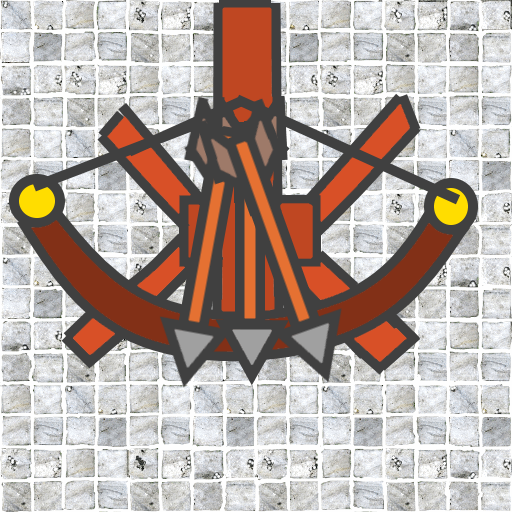
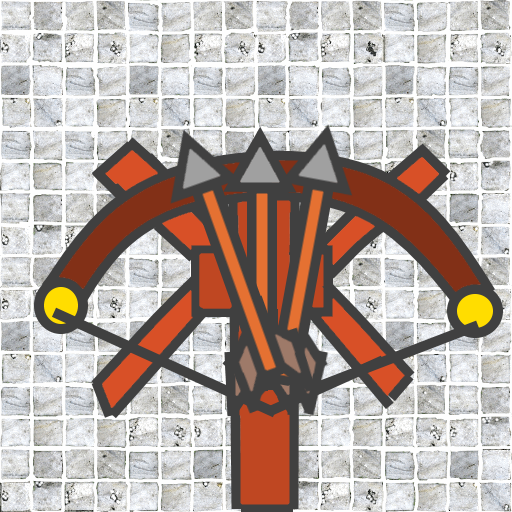
rotation is further implemented

diff --git a/src/explorerTypes/Explorer.java b/src/explorerTypes/Explorer.java
@@ -33,16 +33,17 @@ public class Explorer extends Unit{
 	public Explorer(Group group) {
 		//Hit points, location in Pixels, Velocity in Pixels, Size relative to screen, id to recognize later, an identity code
 		super(group);
+		animation.setRotation(90);
+
 		this.delay=25;
 		this.id = -1;
-		this.lastDirection=2;
+		this.lastDirection=1;
 		this.group=group;
 		unitSize=new Vector2f(0.045f,(float) (0.045f*DisplayManager.getAspectratio()));
 		position=group.getPosition();
 		super.idle=new GuiTexture(GuiLibrary.explorerStanding,location,unitSize);
 		super.animation=new Animation(AnimationLibrary.explorer,location,unitSize);
 		super.animation.setDelay(delay);
-		this.velocity = velocity;
 		floor = Main.grids.get(0).getFloor();
 		damage = 1;
 		
@@ -117,6 +118,7 @@ public class Explorer extends Unit{
 	}
 
 	public void rotate(int direction) {
+		System.out.println("rotating");
 		switch(group.getDirection()){
 		case 1:
 			switch(lastDirection){

diff --git a/src/main/Main.java b/src/main/Main.java
@@ -133,10 +133,11 @@ public static void main(String[] args) throws FileNotFoundException {
 	squad1List.add(group3);
 	squad1List.add(group4);
 	for(Group g : squad1List) {
+		g.add(new Miner (g));
+		g.add(new Miner (g));
 		g.add(new Explorer (g));
-		g.add(new Miner (g));
 		g.add(new TreasureHunter(g));
-		g.add(new Miner (g));
+
 	}
 	Squad squad1=new Squad(squad1List, 0);
 	squads.add(squad1);
@@ -222,7 +223,7 @@ public static void main(String[] args) throws FileNotFoundException {
 		}
 		
 		if(counter < 250) {
-			dynamicGuis.add(new GuiTexture(GuiLibrary.backgroundDraft1, new Vector2f(0.5f, 0f), new Vector2f(1.55f, 1.2f)));
+			//dynamicGuis.add(new GuiTexture(GuiLibrary.backgroundDraft1, new Vector2f(0.5f, 0f), new Vector2f(1.55f, 1.2f)));
 			counter++;
 		}
 		//Reinitialize milli after all methods that call it are done. Then render and do other stuff.

diff --git a/src/pathing/Group.java b/src/pathing/Group.java
@@ -26,7 +26,7 @@ public class Group {
 	private Vector2f location;
 	private Vector2f velocity;
 	private int nextPos;
-	private int direction=0;
+	private int direction;
 	private ArrayList<Point> path;
 	private boolean busy;
 	private boolean wait;
@@ -51,6 +51,7 @@ public class Group {
 	}
 
 	public Group(int id) {
+		direction=11;
 		wait=false;
 		busy=false;
 		nextLoc=new Point(0,0);
@@ -58,7 +59,7 @@ public class Group {
 		nextPos=0;
 		groupIds = new ArrayList<Integer>();
 		location=new Vector2f(Main.grid.getTile(0,0).getLocation().x,Main.grid.getTile(0,0).getLocation().y);
-		location.x=location.x-0.1f;
+		location.y=location.y-0.1f;
 		velocity=new Vector2f(0.1f,(float)(0.1f*DisplayManager.getAspectratio()));
 		group = new ArrayList<Explorer>();
 		MAX_SIZE = 4;

diff --git a/src/librarys/GuiLibrary.java b/src/librarys/GuiLibrary.java
@@ -177,9 +177,9 @@ public static void init(Loader loader) {
 		GuiLibrary.explorerWalkingR = loader.loadTexture("Explorers/Basic/BasicExplorer Walking2");
 
 		
-		GuiLibrary.minerStanding = loader.loadTexture("Explorers/Miner/Miner");
-		GuiLibrary.minerWalkingL = loader.loadTexture("Explorers/Miner/MinerWalking1");
-		GuiLibrary.minerWalkingR = loader.loadTexture("Explorers/Miner/MinerWalking2");
+		GuiLibrary.minerStanding = loader.loadTexture("Explorers/Miner/1");
+		GuiLibrary.minerWalkingL = loader.loadTexture("Explorers/Miner/2");
+		GuiLibrary.minerWalkingR = loader.loadTexture("Explorers/Miner/3");
 		
 		GuiLibrary.test1=loader.loadTexture("Explorers/Test/1");
 		GuiLibrary.test2=loader.loadTexture("Explorers/Test/2");

diff --git a/src/entities/Projectile.java b/src/entities/Projectile.java
@@ -11,6 +11,7 @@ import main.Main;
 import pathing.Group;
 import pathing.Squad;
 import renderEngine.DisplayManager;
+import tools.MathM;
 
 public class Projectile {
 
@@ -31,11 +32,14 @@ public class Projectile {
 		this.x=x;
 		this.y=y;
 		this.floor=floor;
-		this.texture=GuiLibrary.rock1;
+		this.texture=GuiLibrary.arrow5;
 		this.location=new Vector2f(Main.grid.getTile(x,y).getLocation());
 		this.size=new Vector2f(0.1f,0.1f);
 		this.velocity=new Vector2f(0.5f,0.5f);
 		this.image = new GuiTexture(texture, location, size);
+		System.out.println("direction is "+direction);
+		this.image.setRotation(MathM.toDegrees(direction));
+
 	}
 	
 	public boolean canRender() {

diff --git a/src/traps/ArrowTrap.java b/src/traps/ArrowTrap.java
@@ -13,6 +13,7 @@ import librarys.AnimationLibrary;
 import librarys.GuiLibrary;
 import main.Main;
 import renderEngine.DisplayManager;
+import tools.MathM;
 
 public class ArrowTrap extends Tile{
 	
@@ -32,6 +33,7 @@ public class ArrowTrap extends Tile{
 		this.direction=direction;
 		this.texture=1;
 		this.guiTexture=(new GuiTexture(GuiLibrary.arrowTrap1,position,new Vector2f(size,(float) (size*DisplayManager.getAspectratio()))));	
+		this.guiTexture.setRotation(MathM.toDegrees(direction));
 		this.name = "Arrow Trap";
 		this.maxCd=100000000;
 		id = 5;

diff --git a/src/tools/MathM.java b/src/tools/MathM.java
@@ -153,6 +153,15 @@ public class MathM {
 		
 		return list;
 	}
+	public static double toDegrees(int direction){
+		switch(direction){
+		case 1:return 0;
+		case 2:return 90;
+		case 3:return 180;
+		case 4:return 270;
+		}
+		return 0;
+	}
 
 	
 	
